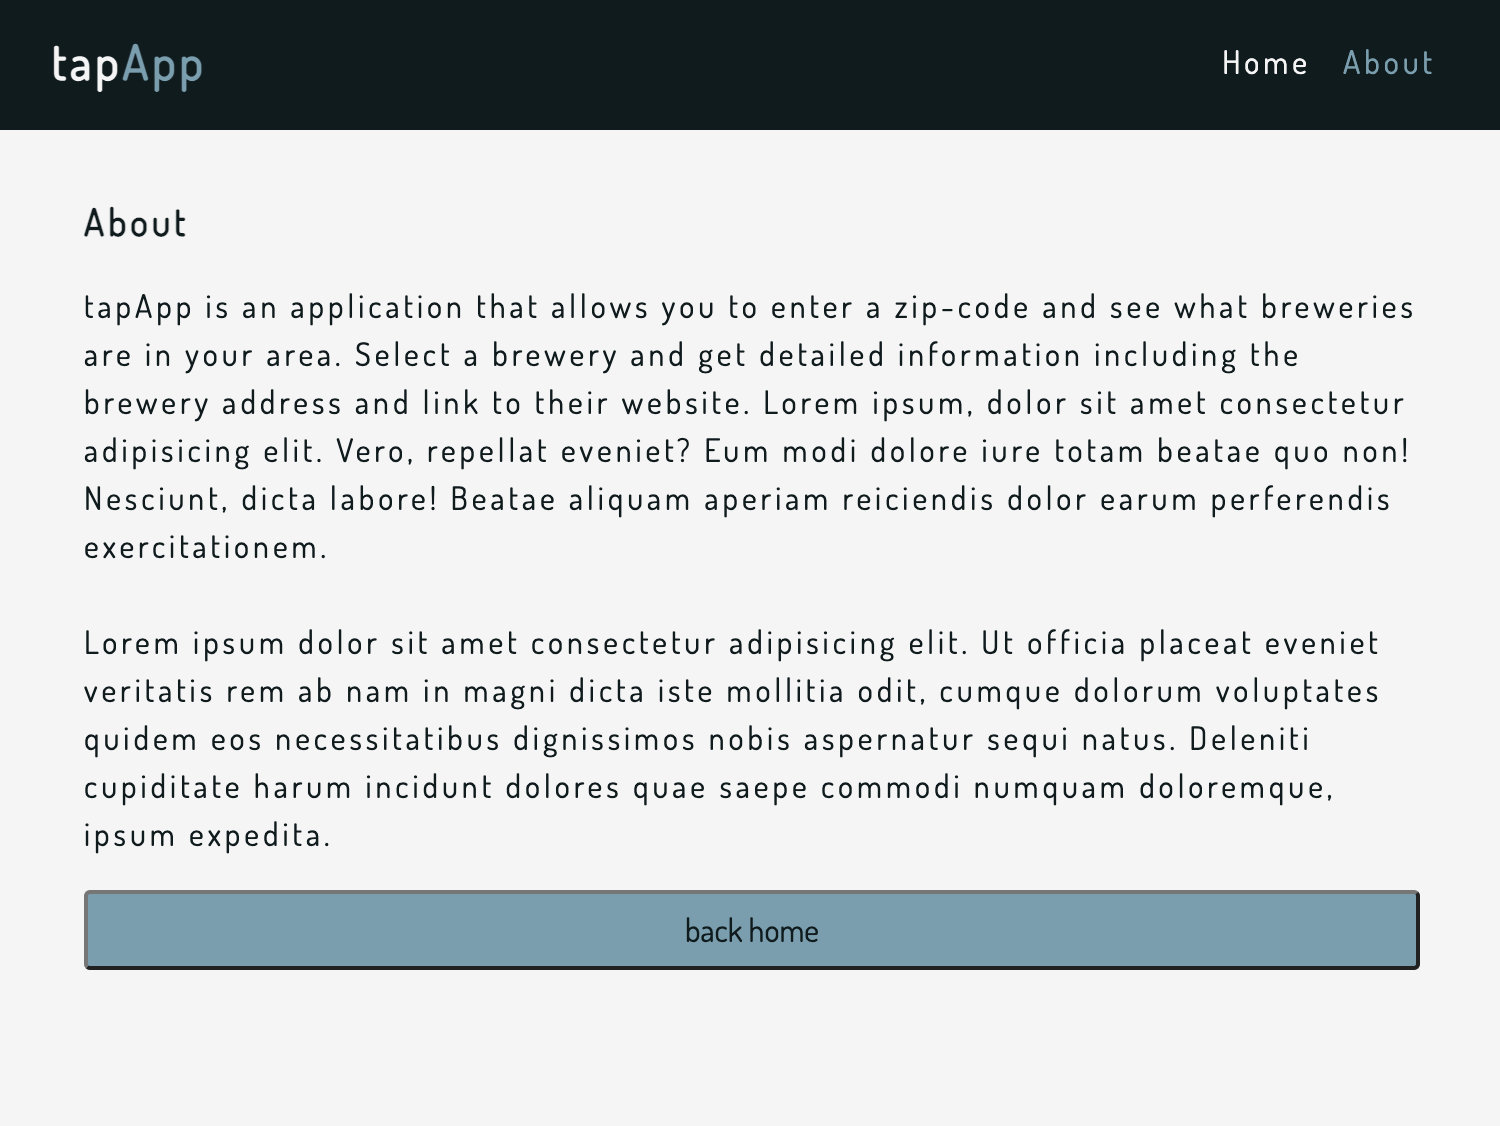
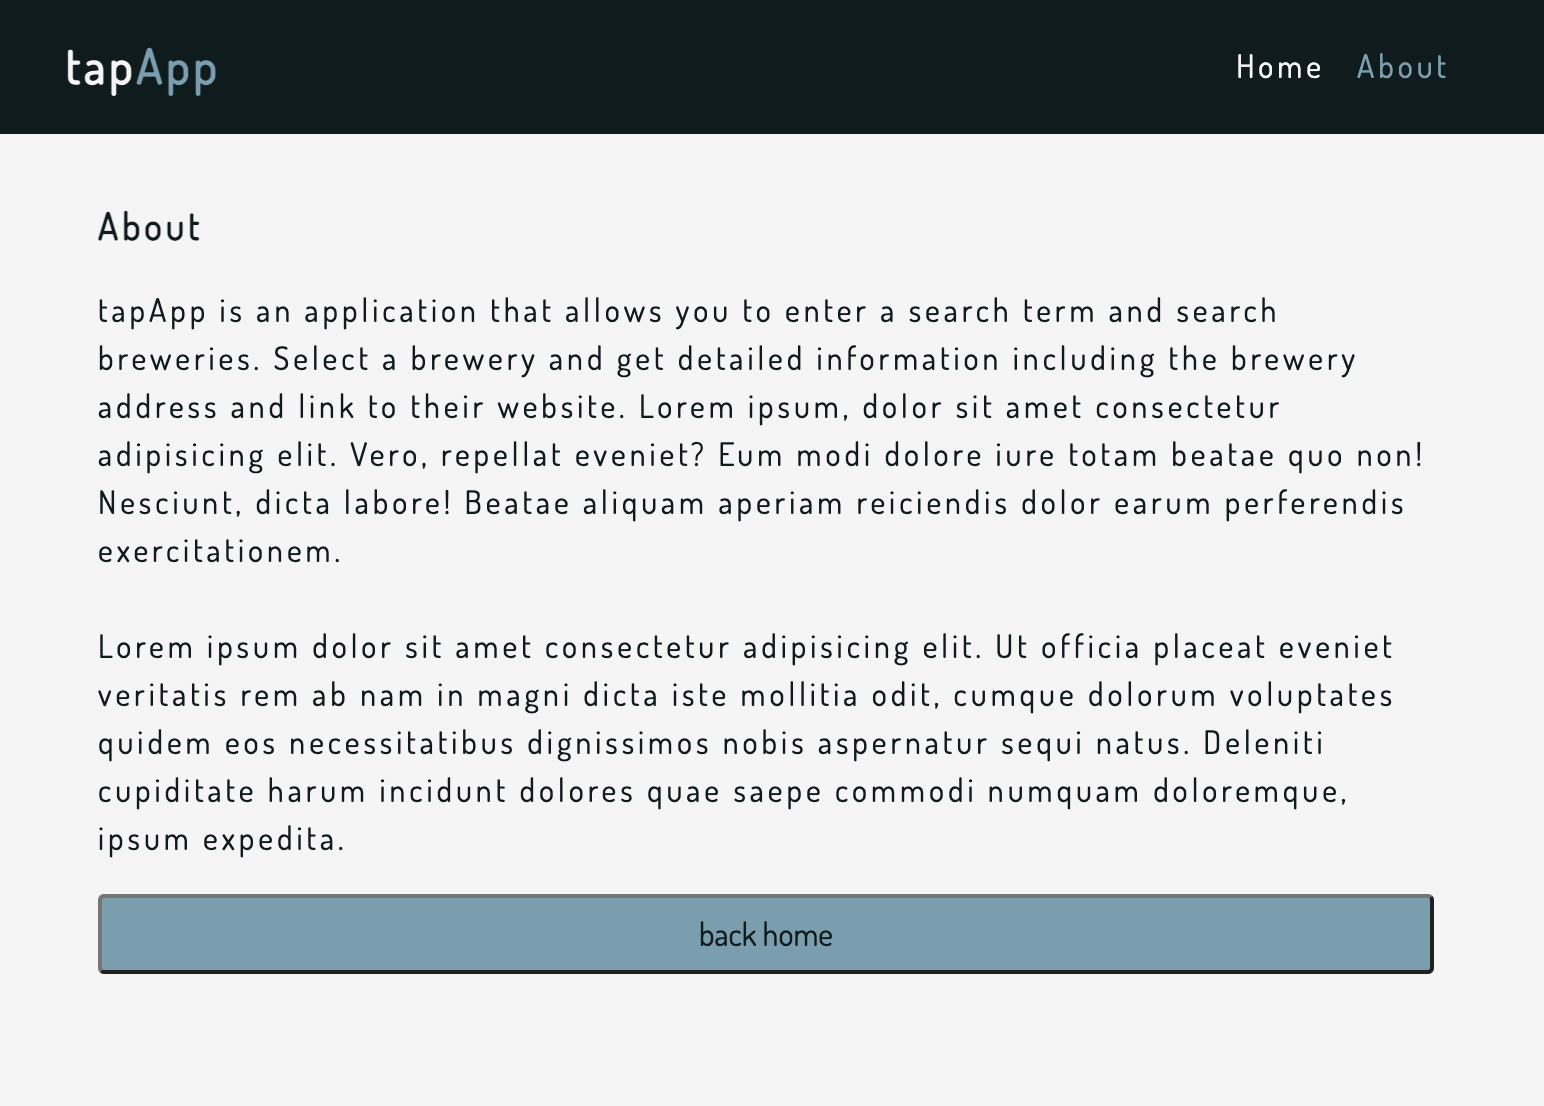
updated about page text

diff --git a/src/pages/about.js b/src/pages/about.js
@@ -11,13 +11,12 @@ const About = () => {
     >
       <h3>About</h3>
       <p>
-        tapApp is an application that allows you to enter a zip-code and see
-        what breweries are in your area. Select a brewery and get detailed
-        information including the brewery address and link to their website.
-        Lorem ipsum, dolor sit amet consectetur adipisicing elit. Vero, repellat
-        eveniet? Eum modi dolore iure totam beatae quo non! Nesciunt, dicta
-        labore! Beatae aliquam aperiam reiciendis dolor earum perferendis
-        exercitationem.
+        tapApp is an application that allows you to enter a search term and
+        search breweries. Select a brewery and get detailed information
+        including the brewery address and link to their website. Lorem ipsum,
+        dolor sit amet consectetur adipisicing elit. Vero, repellat eveniet? Eum
+        modi dolore iure totam beatae quo non! Nesciunt, dicta labore! Beatae
+        aliquam aperiam reiciendis dolor earum perferendis exercitationem.
       </p>
       <br />
       <p>
